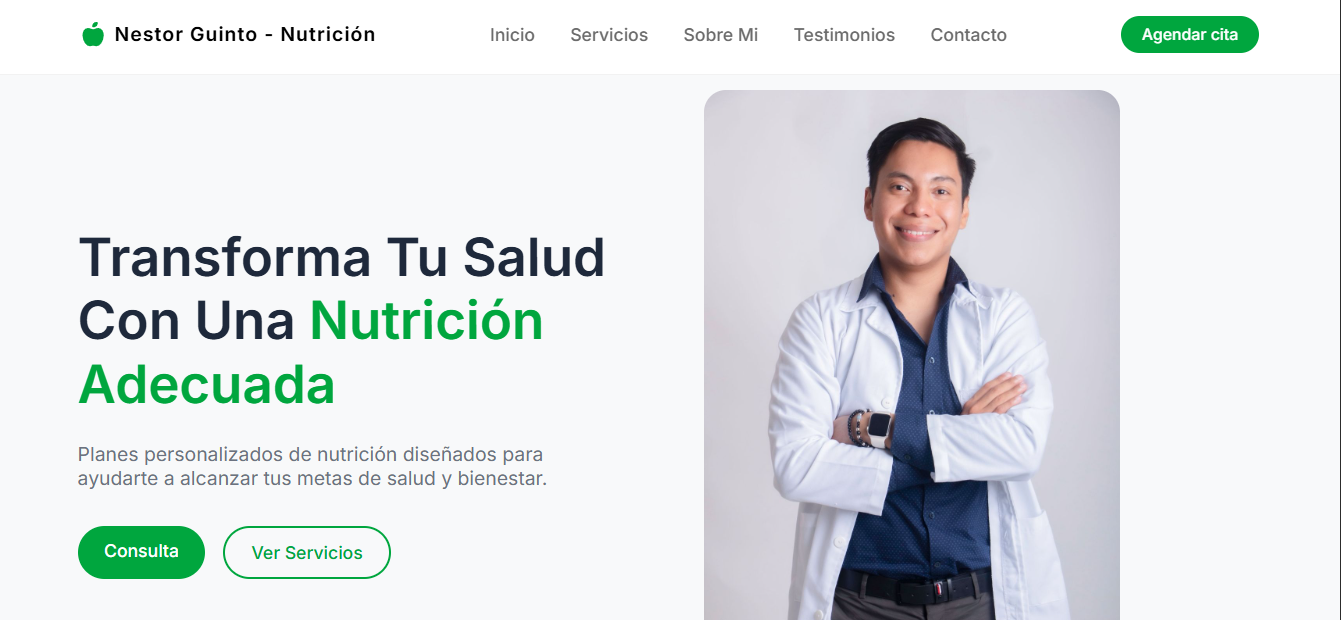
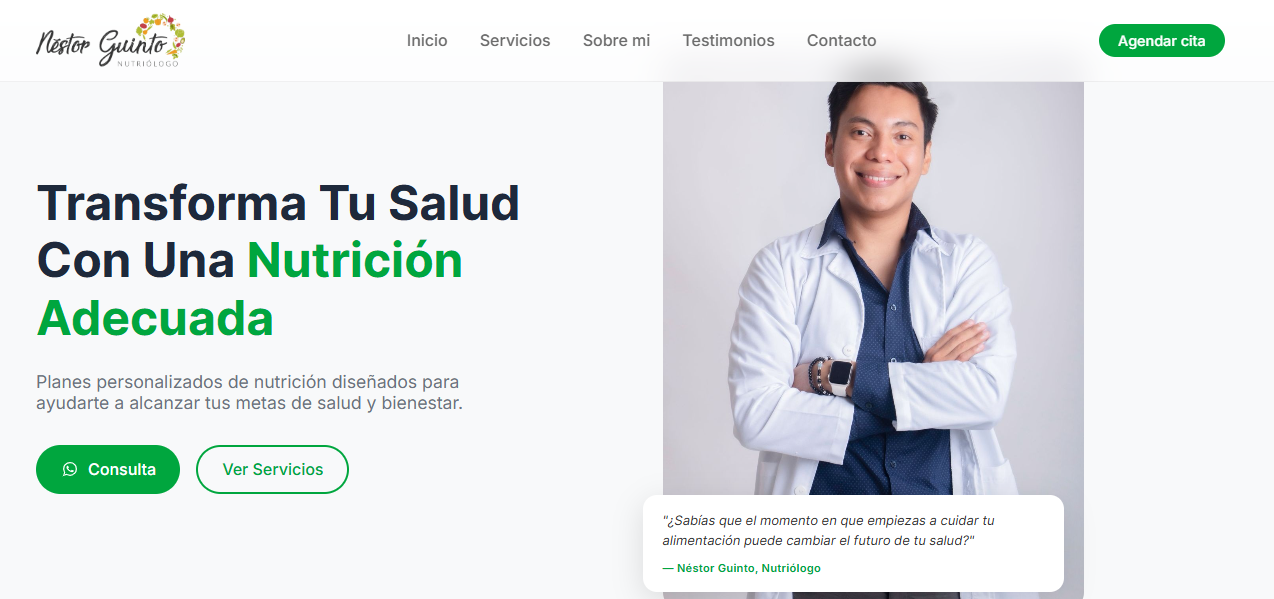
add proyectos

diff --git a/src/components/Projects.jsx b/src/components/Projects.jsx
@@ -10,18 +10,26 @@ function Projects() {
       image: "/img/nutricionist.png",
       title: "Nestor Guinto - Nutrición",
       description: "Página web responsive para nutriólogo desarrollada con React y CSS.",
-      tech: ["En desarrollo","React", "CSS",],
+      tech: ["React", "CSS",],
       github: "https://github.com/G-morenoB/NestorGuinto-Nutricion-",
-      demo: ""
+      demo: "https://nestorguinto-nutricion.vercel.app/"
     },
         {
       image: "/img/proyect2.png",
-      title: "Zona Basquet",
-      description: "Panel de administración para una tienda de artículos deportivos con CRUD de productos",
+      title: "Zona Basquet- Panel de administración",
+      description: "Panel de administración con login para una tienda de artículos deportivos con CRUD de productos",
       tech: ["MongoDB","Express","TypeScript","React", "Tailwind","Cloudinary",],
       github: "https://github.com/G-morenoB/inventario-deportivo",
-      demo: ""
-    }
+      demo: "https://zonabasquet-app.vercel.app/dashboard"
+    },
+      {
+      image: "/img/proyect2.png",
+      title: "Zona Basquet- Catalogo",
+      description: "Catálogo para una tienda de artículos deportivos con búsqueda por filtros",
+      tech: ["MongoDB","Express","TypeScript","React", "Tailwind","Cloudinary",],
+      github: "https://github.com/G-morenoB/inventario-deportivo",
+      demo: "https://zonabasquet-app.vercel.app/catalogo"
+    },
   ];
 
   return (
